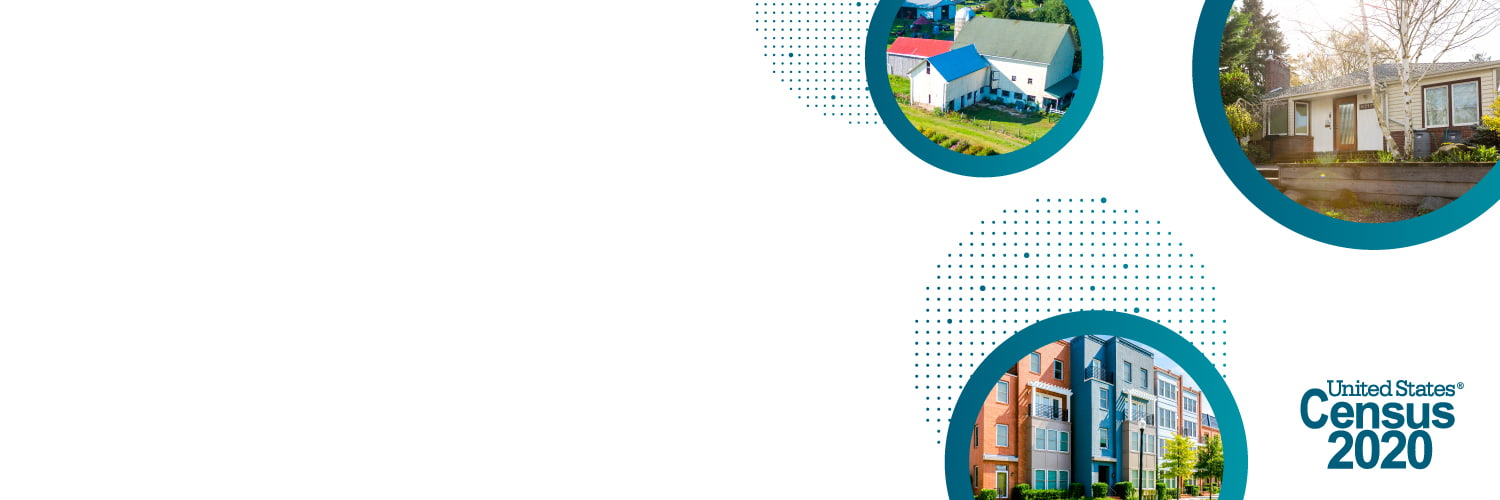
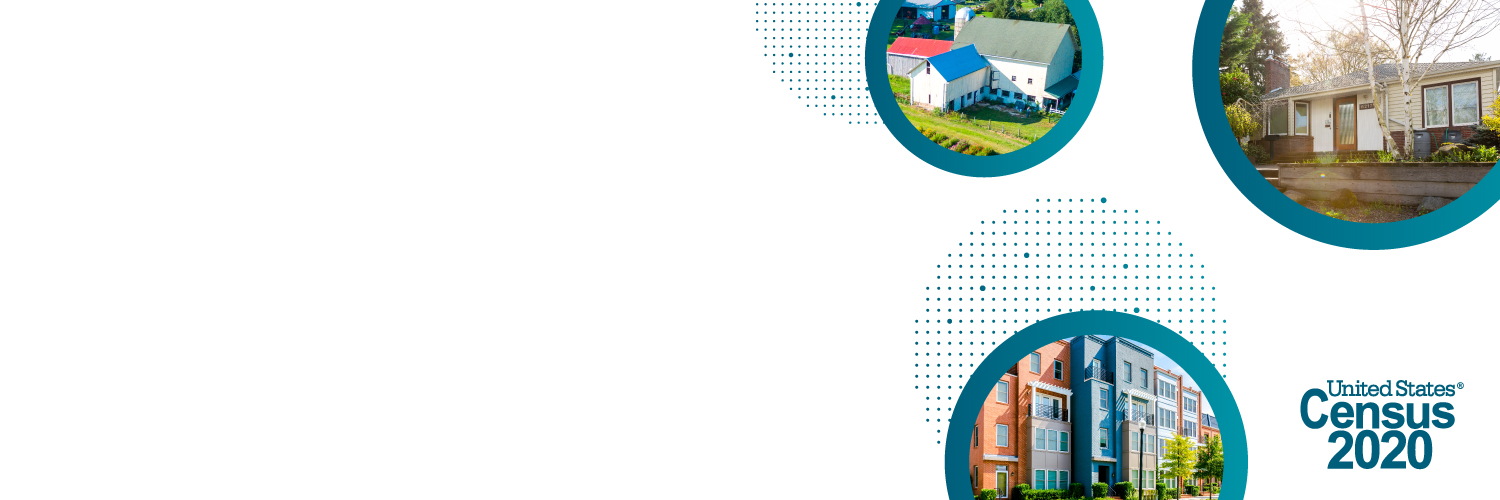
Updated alt text to match new hero bg

diff --git a/pages/social-toolkits/redistricting.md b/pages/social-toolkits/redistricting.md
@@ -22,7 +22,7 @@ hero:
   text-on-left: true
   background-img: 
     src: backgrounds/USCB_RedistrictingRelease_1500x500-wSpace.jpg
-    alt: "Polaroids of smiling people on a dark blue field"
+    alt: "A farm house, bungalow, and apartment building each in a teal bubble with text 'United States Census 2020'"
 
 links:
   title: Helpful Links for Partners and Stakeholders
